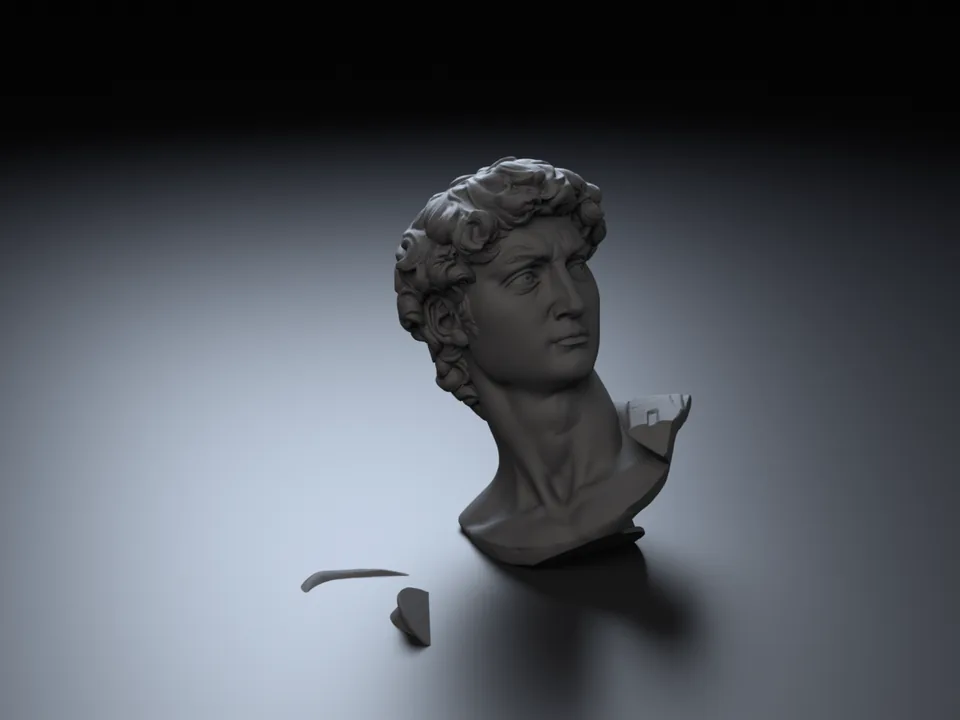
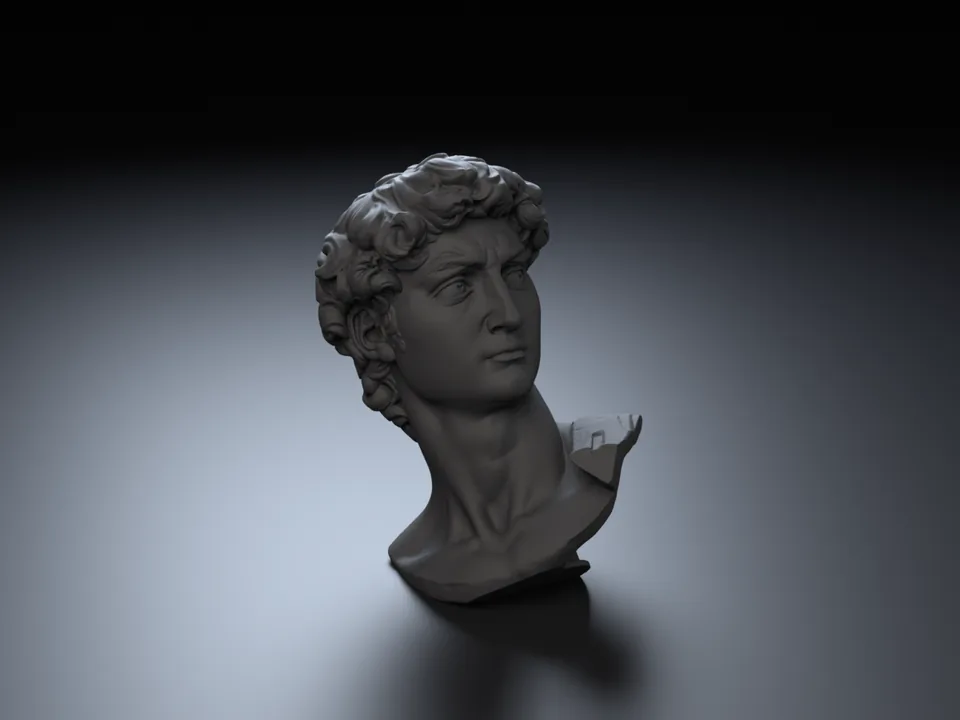
Сглобени снимки на продуктите; снимка на автора за непълните 3D модели

Changed region(s): [[0.2812, 0.2139, 0.7812, 1.0], [0.1875, 0.3667, 0.25, 0.4278]]

diff --git a/catalog.js b/catalog.js
@@ -9,8 +9,10 @@
   const byId = id => products.find(p => p.id === id);
   // снимка: студийната (img/p/<id>.webp, еднаква за всички), а ако я няма — тази на автора от MakerWorld / Printables
   const photoColors = window.SLOY_CATALOG.photoColors || {};
-  const photoOf = p => (photoColors[p.id] ? `img/p/${p.id}.webp` : p.mw.img);
-  const imgHTML = (p, alt) => `<img src="${photoOf(p)}" alt="${esc(alt)}" loading="lazy" referrerpolicy="no-referrer"${photoColors[p.id] ? ` data-fallback="${esc(p.mw.img)}"` : ''}>`;
+  const authorPhotos = new Set(window.SLOY_CATALOG.authorPhotos || []);
+  const studio = p => !!photoColors[p.id] && !authorPhotos.has(p.id);   // има ли студийна снимка
+  const photoOf = p => (studio(p) ? `img/p/${p.id}.webp` : p.mw.img);
+  const imgHTML = (p, alt) => `<img src="${photoOf(p)}" alt="${esc(alt)}" loading="lazy" referrerpolicy="no-referrer"${studio(p) ? ` data-fallback="${esc(p.mw.img)}"` : ''}>`;
   // липсваща студийна снимка → снимката на автора
   document.addEventListener('error', e => {
     const img = e.target;
@@ -252,10 +254,10 @@
     $$('#pd-views button').forEach(b => b.setAttribute('aria-pressed', String(b.dataset.view === v)));
   };
   const showViews = has3D => {
-    const studio = !!photoColors[pd.product.id];
+    const own = studio(pd.product);
     $('#pd-views [data-view="3d"]').hidden = !has3D;
-    $('#pd-views [data-view="author"]').hidden = !studio;
-    $('#pd-views').hidden = !has3D && !studio;
+    $('#pd-views [data-view="author"]').hidden = !own;
+    $('#pd-views').hidden = !has3D && !own;
   };
   const paint3D = () => {
     if (!viewer) return;
@@ -360,7 +362,7 @@
     const img = $('#pd-img');
     img.parentElement.classList.remove('noimg');
     img.src = photoOf(p);
-    if (photoColors[p.id]) img.dataset.fallback = p.mw.img;
+    if (studio(p)) img.dataset.fallback = p.mw.img;
     img.alt = pick(p, 'name');
     $('#pd-cat').textContent = t(categories[p.cat]) + (subLabel(p) ? ' · ' + t(subLabel(p)) : '');
     $('#pd-title').textContent = pick(p, 'name');

diff --git a/products.js b/products.js
@@ -576,6 +576,9 @@ window.SLOY_CATALOG = (() => {
     // Студийни снимки (img/p/<id>.webp, правят се с python tools/render_all.py от models/<id>.glb).
     // Цветът тук е цветът на снимката и цветът, избран по подразбиране в каталога (ако е наличен на склад).
     // Продукт без ред тук показва снимката от MakerWorld / Printables.
+    // Продукти, при които 3D файлът е непълен или са много части без данни за сглобяване — главната снимка е на автора
+    // (показва сглобения продукт); студийната не се ползва. Цветът по подразбиране пак е от photoColors.
+    authorPhotos: ['deer-lantern', 'car-phone', 'race-car-desk', 'haunted-house', 'mimic-chest', 'rose', 'tulip'],
     photoColors: {
       'bubble-vase': 'Червен', 'airsoft-grip': 'Черен',
       'mag-insert': 'Черен', 'mlok-cover': 'Черен', 'molle-hook': 'Черен', 'molle-phone': 'Черен', 'picatinny-gopro': 'Черен',

diff --git a/script.js b/script.js
@@ -72,7 +72,8 @@
   // Празникът се показва seasonLeadDays дни преди датата си и изчезва след нея.
   // За преглед преди сезона: добави ?sezon=christmas към адреса.
   const catalog = window.SLOY_CATALOG;
-  const photos = catalog?.photoColors || {};   // продукти със студийна снимка (img/p/<id>.webp)
+  const authorPhotos = new Set(catalog?.authorPhotos || []);
+  const photos = Object.fromEntries(Object.entries(catalog?.photoColors || {}).filter(([id]) => !authorPhotos.has(id)));   // със студийна снимка
   const findSeason = () => {
     if (!catalog) return null;
     const { seasons, seasonLeadDays = 30, orderDaysBefore = 6 } = catalog;
